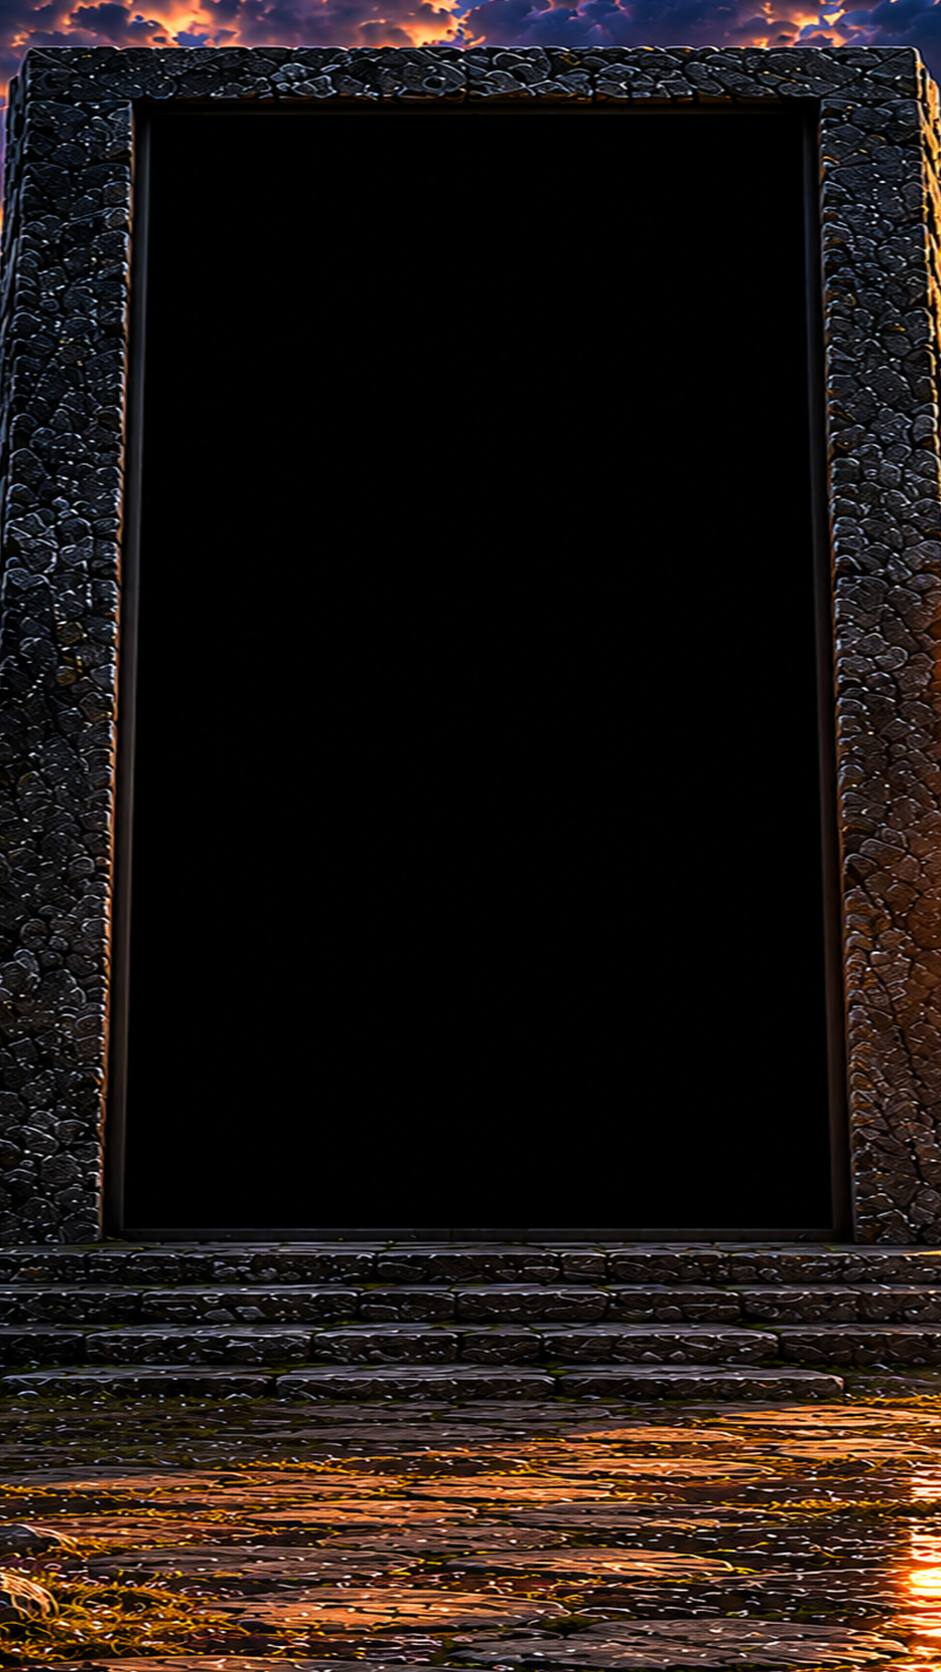
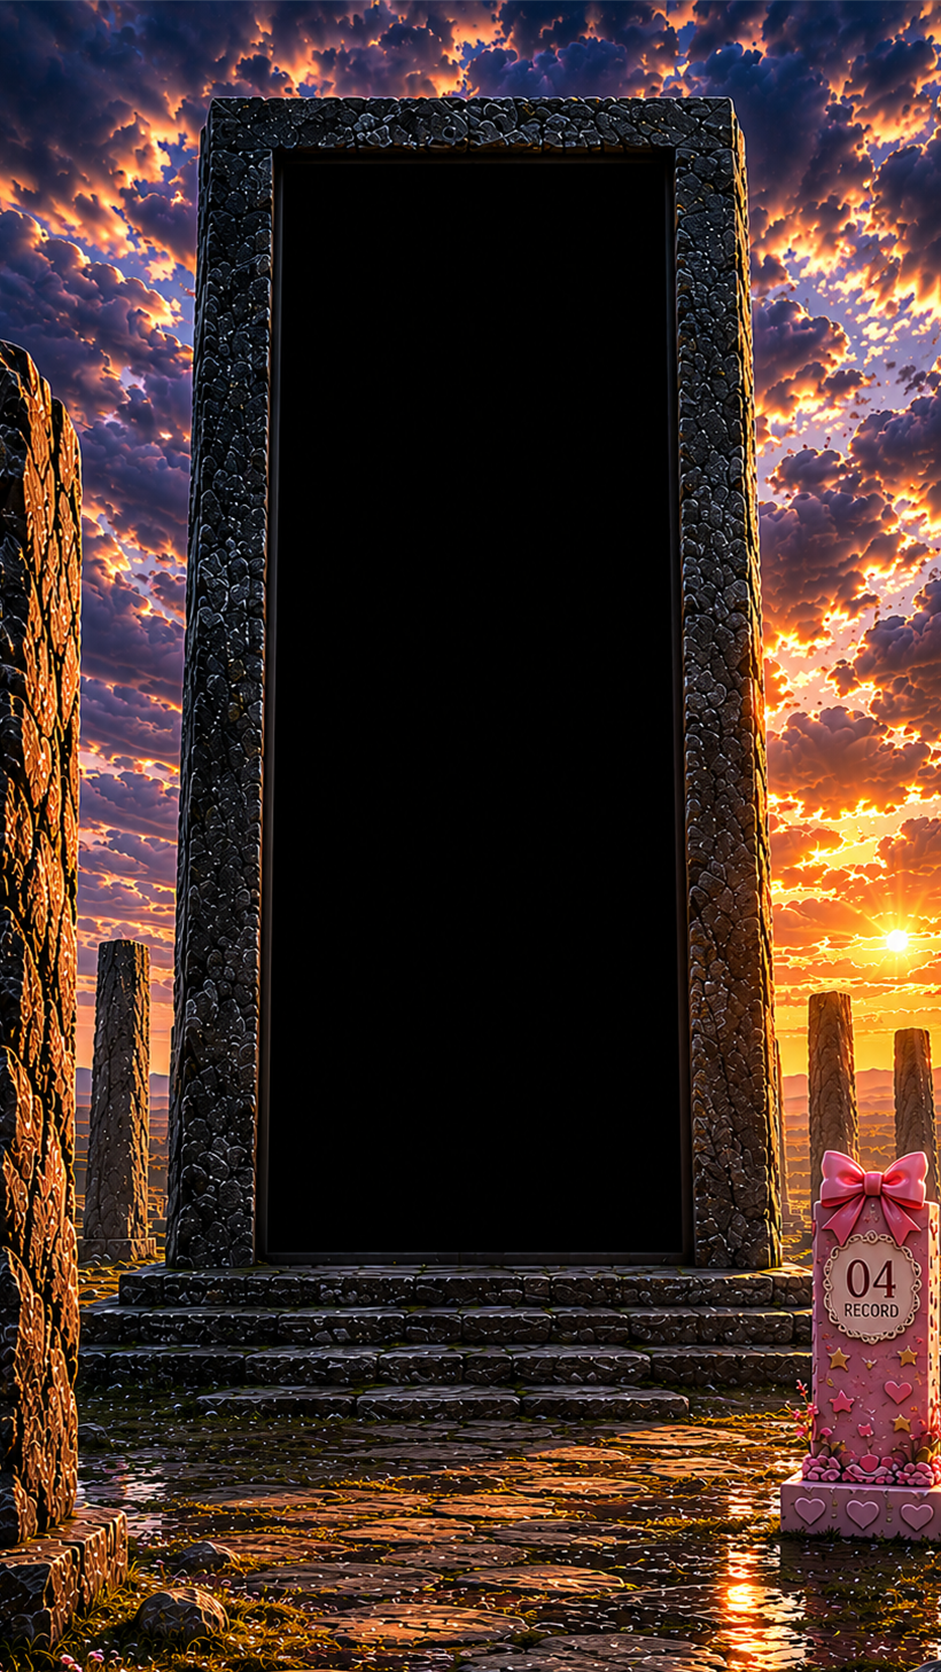
Keep hyougi mascot stone visible

diff --git a/static/space.css b/static/space.css
@@ -1132,10 +1132,10 @@ a.sp-link:hover,
 
 .hyougi-void {
   position: absolute;
-  left: 13.2%;
-  top: 5.9%;
-  width: 74%;
-  height: 68.7%;
+  left: 28.9%;
+  top: 8.9%;
+  width: 42.5%;
+  height: 65.5%;
   border-radius: 1.2% / 0.8%;
   z-index: 1;
   overflow: hidden;
@@ -1149,13 +1149,13 @@ a.sp-link:hover,
 
 .hyougi-embed {
   position: absolute;
-  left: 0;
+  left: 50%;
   top: 0;
-  width: 100%;
+  width: 154%;
   height: 100%;
   border: 0;
   background: #000;
-  transform: none;
+  transform: translateX(-50%);
 }
 
 .hyougi-frame::before,